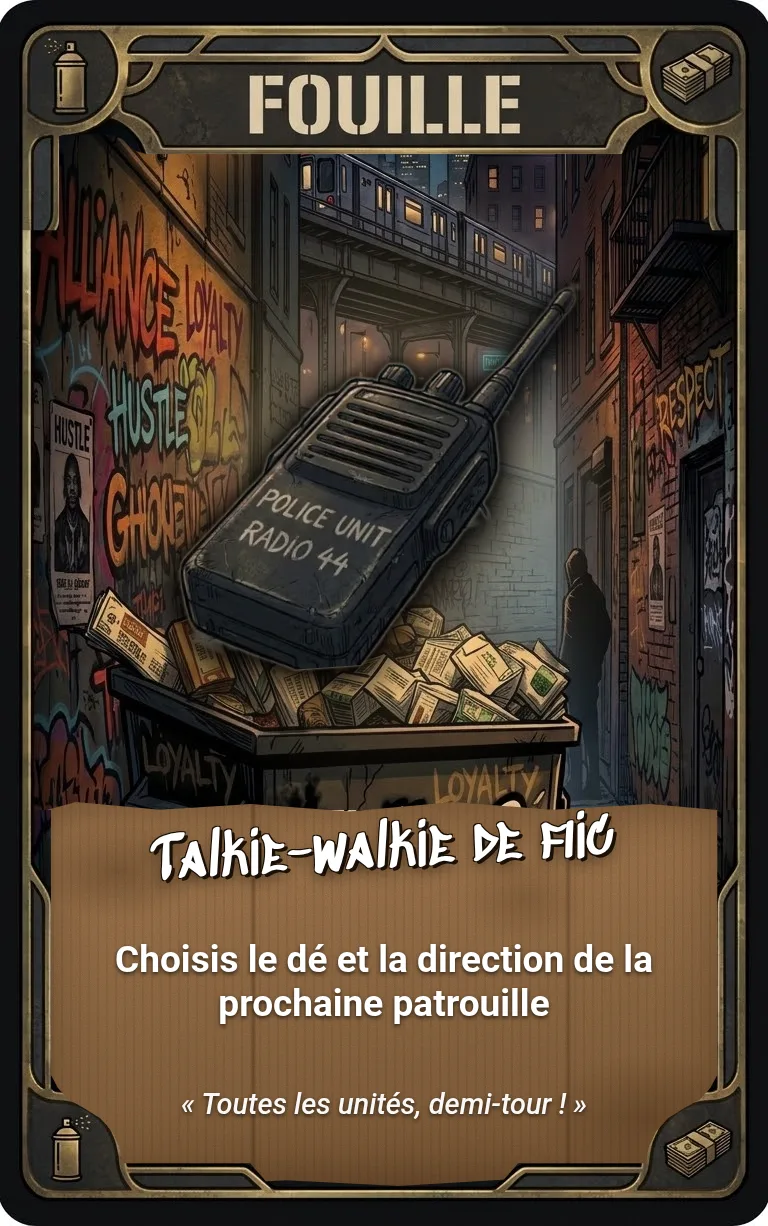
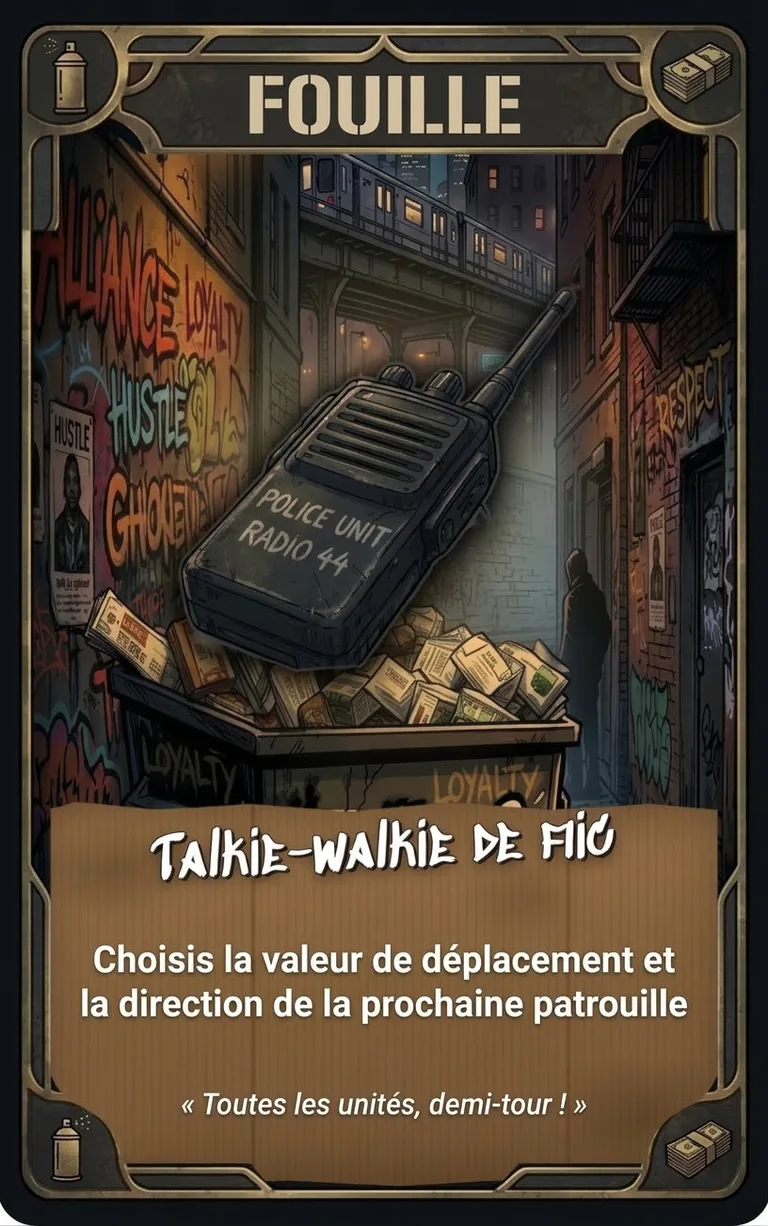
Carte Talkie-walkie : nouveau texte sans le dé
« Choisis la valeur de déplacement et la direction de la prochaine
patrouille » (image retouchée), même texte dans la description.

diff --git a/Ghettoway2Success/public/js/items.js b/Ghettoway2Success/public/js/items.js
@@ -297,7 +297,7 @@ const FOUILLE_TABLE = [
   [1, { name: 'Seringue de botox', eff: 'botox', desc: 'La prochaine rente de tes prostituées au QG est doublée (une seule fois)' }],
   [1, { name: 'Ticket à gratter', eff: 'scratch', val: 5000, desc: '1 chance sur 3 de gagner 5 000 €' }],
   [1, { name: 'Pied de biche', eff: 'crowbar', desc: 'Vole dans le coffre du QG d’un rival : jusqu’à 5 000 €, 5 kg, ou un partage des deux' }],
-  [1, { name: 'Talkie-walkie de flic', eff: 'patrol_reroll', desc: 'Choisis à l’avance le nombre de cases et la direction du prochain déplacement de la patrouille' }],
+  [1, { name: 'Talkie-walkie de flic', eff: 'patrol_reroll', desc: 'Choisis la valeur de déplacement et la direction de la prochaine patrouille' }],
   [1, { name: 'Lunettes de soleil', eff: 'double_fouille', desc: 'À ta prochaine Fouille, tu vois 2 objets et tu gardes le meilleur' }],
   [1, { name: 'Rat crevé', eff: 'none', desc: 'Il a eu une vie plus dure que toi.' }]
 ];
